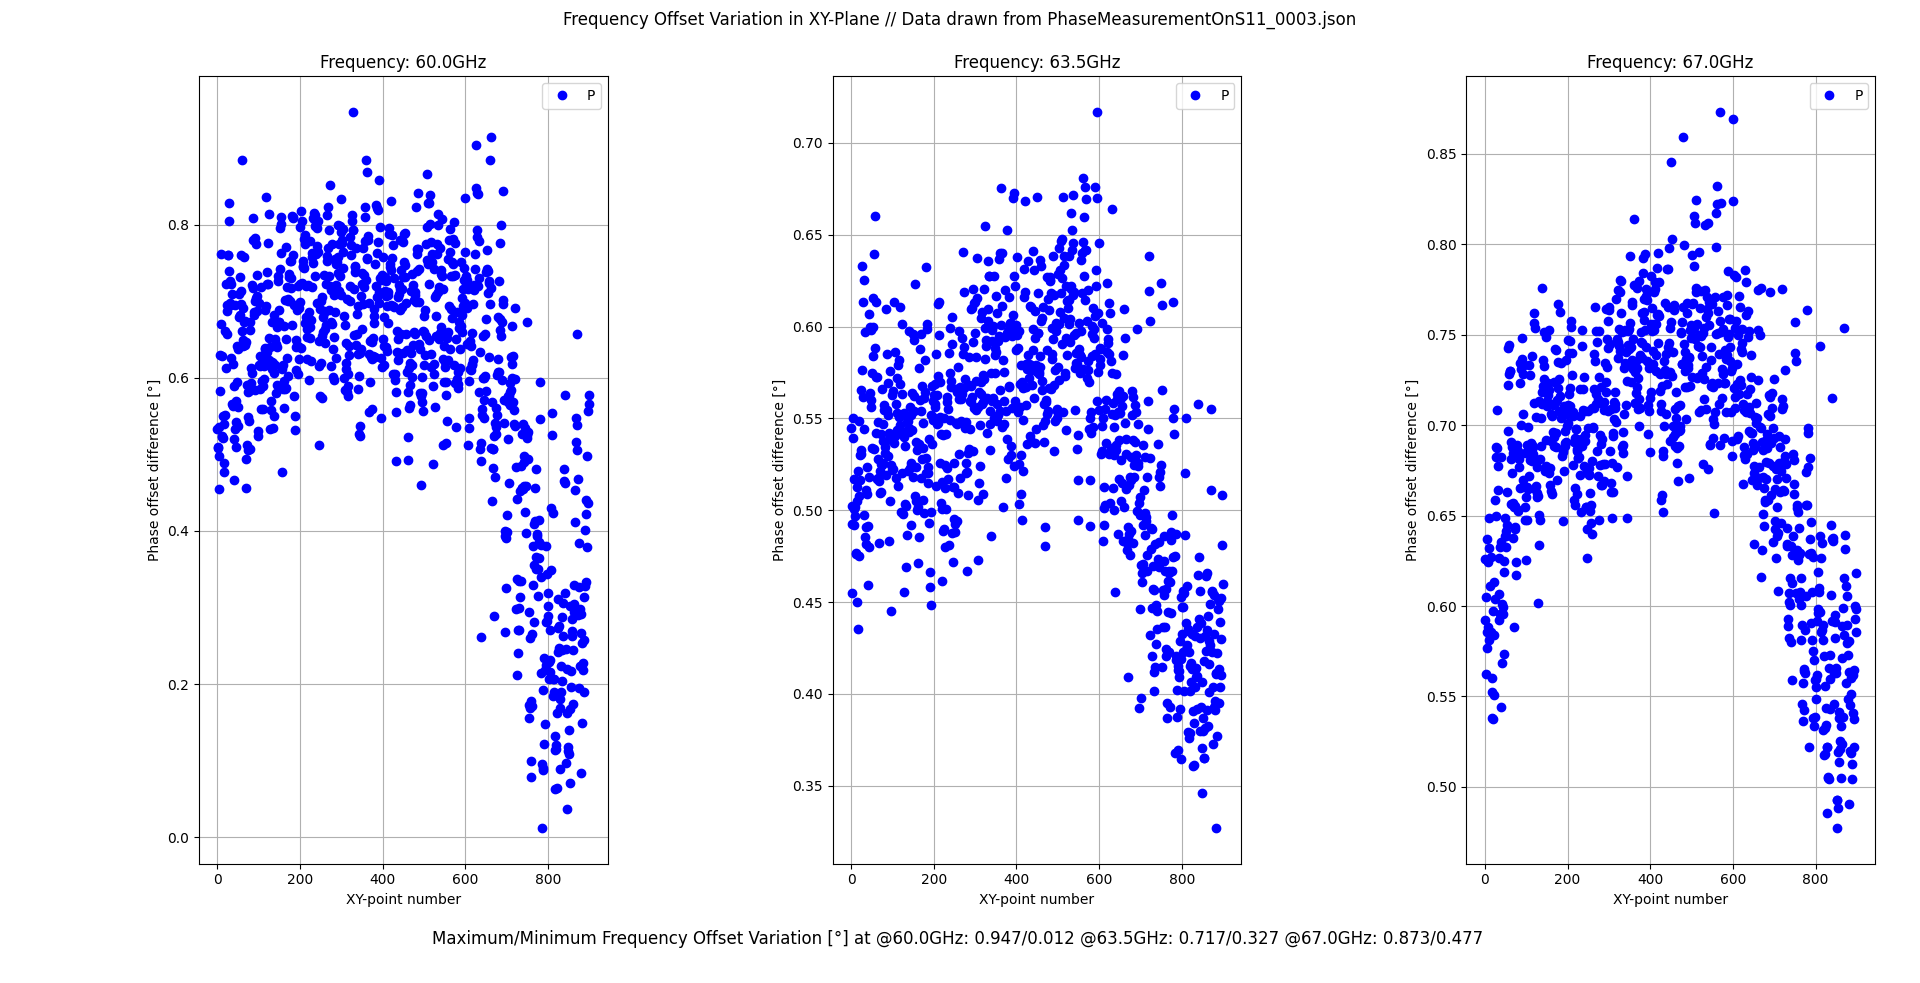
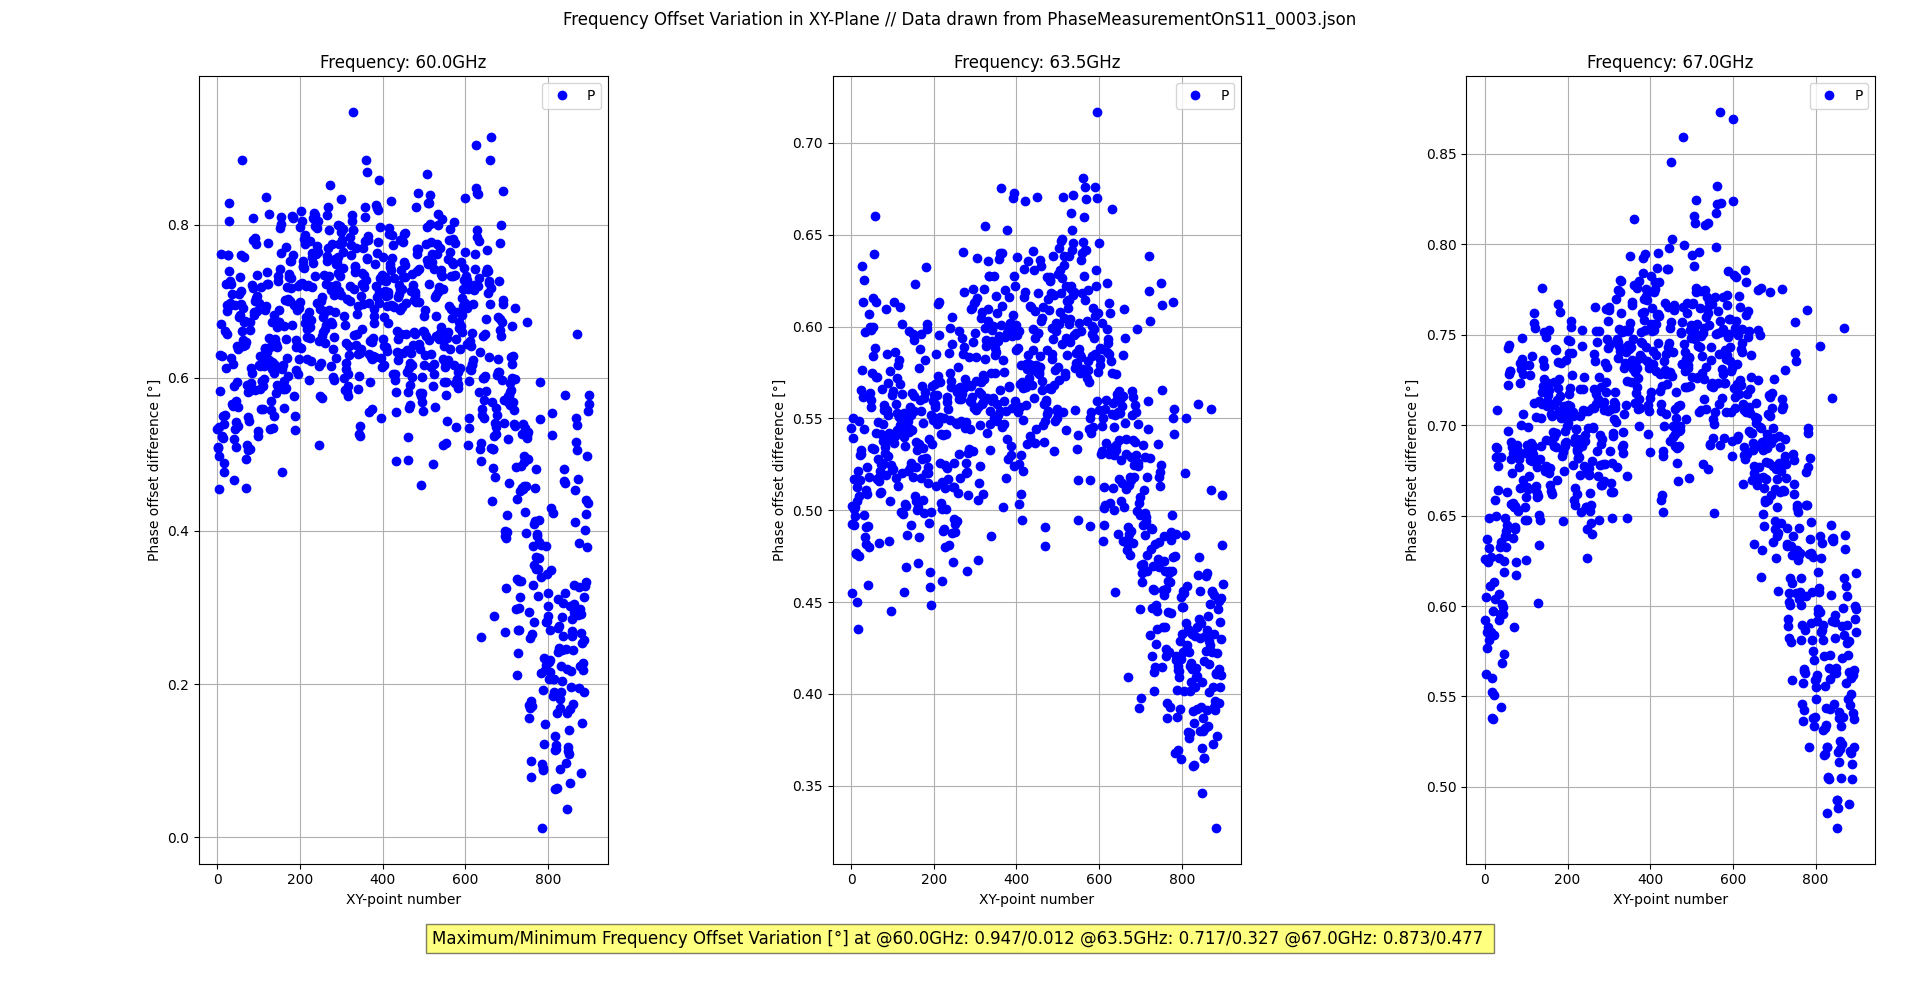
highlighted text in plot figures and corrected typo

Changed region(s): [[0.2188, 0.9156, 0.7812, 0.9766]]

diff --git a/SpecialScripts/XYFrequencyOffsetVariation.py b/SpecialScripts/XYFrequencyOffsetVariation.py
@@ -69,8 +69,9 @@ for i in range(num_freq_points):
     main_axes[i].legend('Phase offset [°]')
     main_axes[i].set_title('Frequency: ' + str(round(meas_data_dict['f_vec'][i]*1e-9,1)) + 'GHz')
 
-main_fig.text(0.5, 0.04, info_string, ha='center', fontsize=12)
+main_fig.text(0.5, 0.04, info_string, ha='center', fontsize=12, bbox=dict(facecolor='yellow', alpha=0.5))
 plt.tight_layout()
+
 
 # Plot phase offset as line over repetitions for each point in XY plane
 phase_offsets = np.zeros([num_freq_points, meas_data_dict['x_vec'].__len__()*meas_data_dict['y_vec'].__len__(), meas_data_dict['z_vec'].__len__()])
@@ -96,6 +97,7 @@ for i in range(num_freq_points):
     new_fig.text(0.5, 0.975, str('Phase measured at each point in XY-Plane // Data drawn from ' + __filename),
                   ha='center', fontsize=12)
     new_fig.text(0.5, 0.04, 'Each line corresponds to one point in XY-Plane. Each point was probed ' + str(meas_data_dict['z_vec'].__len__()) + ' times.', ha='center', fontsize=12)
+
 
 plt.tight_layout()
 plt.show()

diff --git a/docs/Phase Variation Study/PhaseVariationStudy.md b/docs/Phase Variation Study/PhaseVariationStudy.md
@@ -26,8 +26,8 @@ Each point was measured 51 times to evaluate the drift of the phase variation er
 non-ideal movement/repetition.  
 The following graph shows the maximum phase-difference that occurred when measuring the same point multiple times.  
 ![Measurement_0004](/docs/Phase%20Variation%20Study/Figures/FreqOffsetVariationStudy_0004.png)  
-In the following three graphs show the measured phase-value at each point (each line) over multiple iterations 
-(along x-axis). The phase is shown in degrees.  
+In the following three graphs the measured phase-value at each point (each line) over multiple iterations 
+(along x-axis) is shown. The phase is shown in degrees.  
 ![Measurement_phaseDevelopment67G_0004](/docs/Phase%20Variation%20Study/Figures/Phase_measured_for_each_XY-Point_67.0_GHz_0004.png)
 ![Measurement_phaseDevelopment63,5G_0004](/docs/Phase%20Variation%20Study/Figures/Phase_measured_for_each_XY-Point_63.5_GHz_0004.png)
 ![Measurement_phaseDevelopment60G_0004](/docs/Phase%20Variation%20Study/Figures/Phase_measured_for_each_XY-Point_60.0_GHz_0004.png)  
